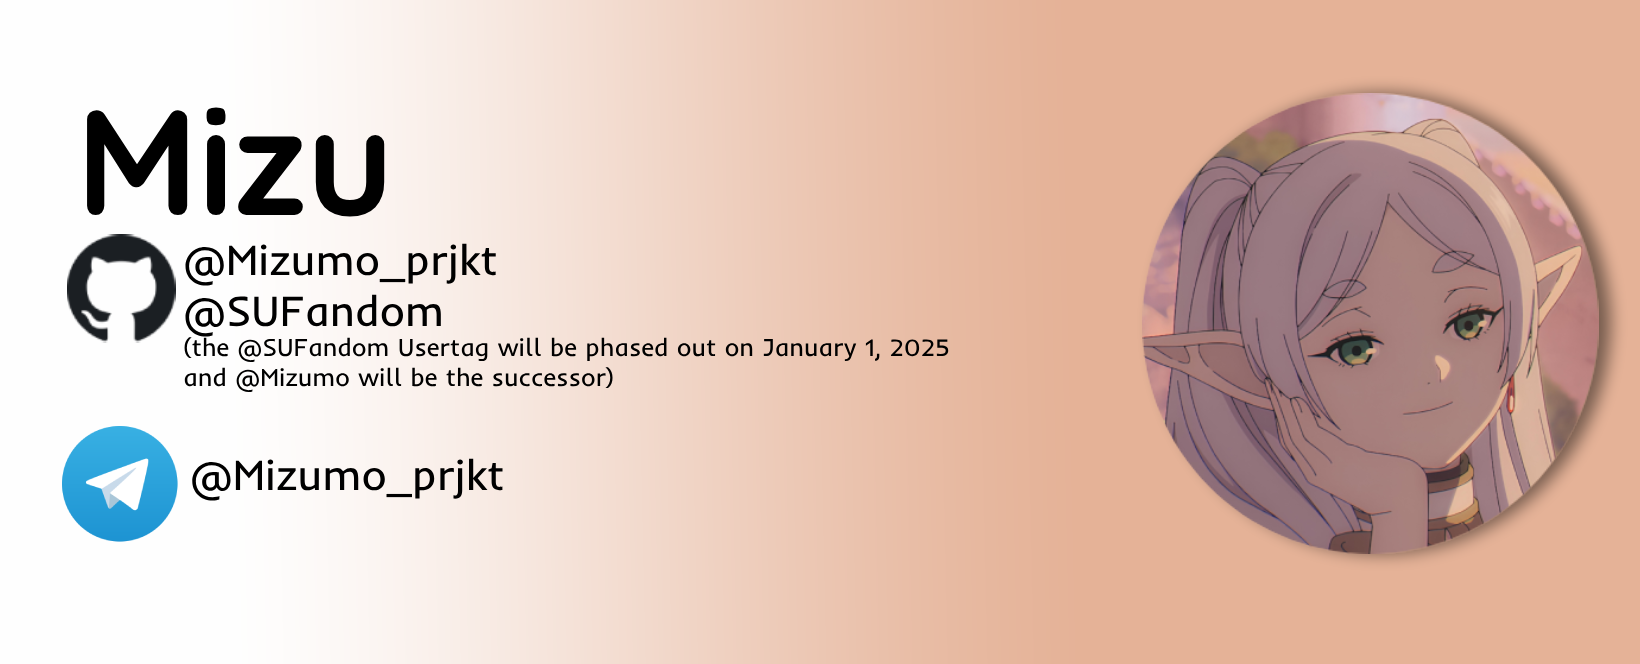
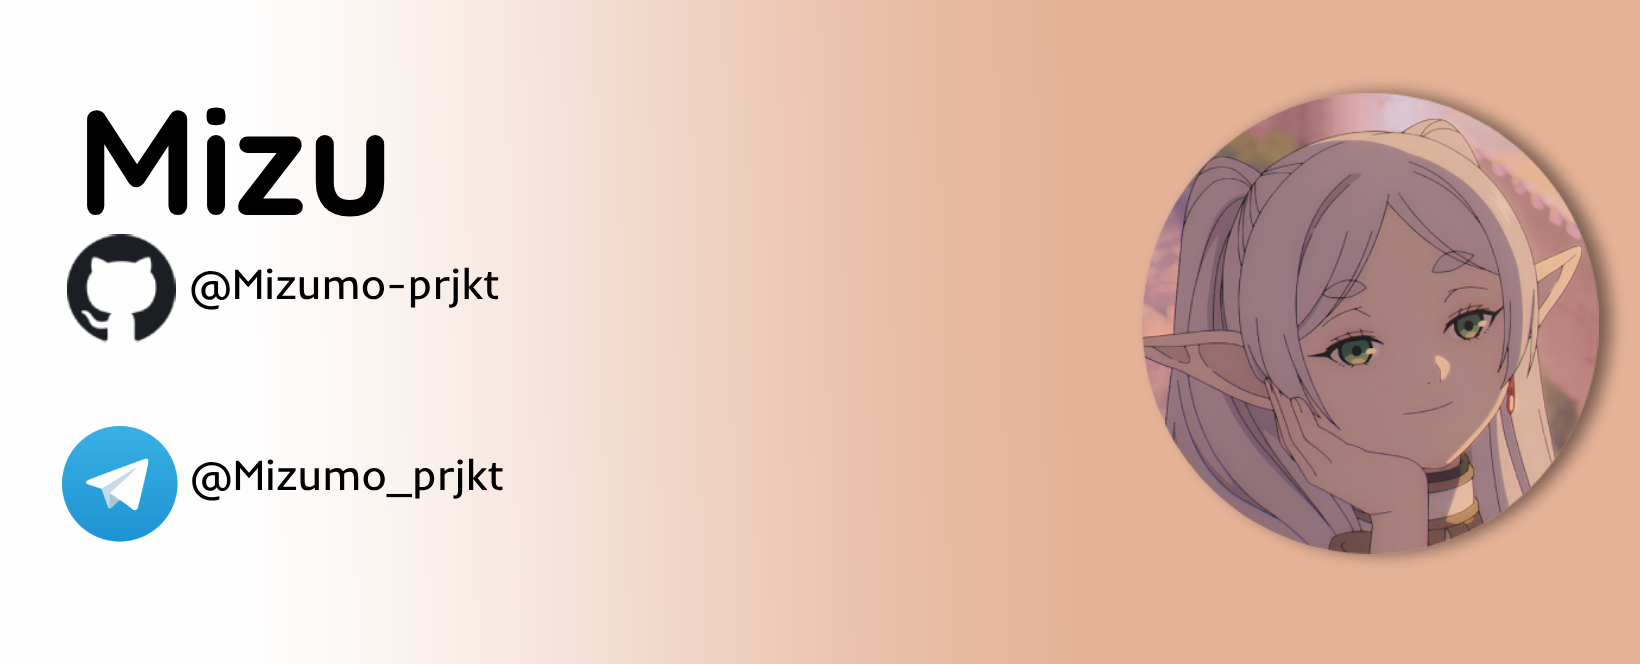
change early

Changed region(s): [[0.0933, 0.3614, 0.5909, 0.6024]]

diff --git a/README.md b/README.md
@@ -38,7 +38,7 @@ So, My Notable works???
 | <img src="https://www.svgrepo.com/show/331582/sourceforge.svg" style="display: block; margin-left: auto; margin-right: auto;" height=15% width=15%> <p style="margin: auto" align=center>SourceForge</p>                                                                                                                            | https://sourceforge.net/u/xynoxx/profile/                                                                           |
 |----------------------------------------------------------------------------------------------------------------------------------------------------------------------------------------------------------------------------------------------------------------------|---------------------------------------------------------------------------------------------------------------------|
 | <p align=center><img src="https://upload.wikimedia.org/wikipedia/commons/thumb/8/82/Telegram_logo.svg/2048px-Telegram_logo.svg.png" style="display: block; margin-left: auto; margin-right: auto;" height=15% width=15% ></p> <p style="margin: auto;" align=center ><b>Telegram</b></p> | Announcements: https://t.me/prjkt_mizumo  <br>Account: @Mizumo_prjkt <br>  Also can be found: https://t.me/a12schat |
-| <p align=center><img src="https://upload.wikimedia.org/wikipedia/commons/9/91/Octicons-mark-github.svg" style="display: block; margin-left: auto; margin-right: auto;" height=15% width=15%></p> <p style="margin: auto;" align=center><b>Github</b></p>                                 | Phasing out on Jan 1, 2025:<br>https://github.com/SUFandom <br><br> Replacing: <br> https://github.com/Mizumo_prjkt       |
+| <p align=center><img src="https://upload.wikimedia.org/wikipedia/commons/9/91/Octicons-mark-github.svg" style="display: block; margin-left: auto; margin-right: auto;" height=15% width=15%></p> <p style="margin: auto;" align=center><b>Github</b></p>                                 |  https://github.com/Mizumo-prjkt       |
 | <p align=center><img src="https://static-00.iconduck.com/assets.00/games-genshinimpact-icon-2048x2048-jyrv8s6e.png" style="display: block; margin-left: auto; margin-right: auto;" height=15% width=15% > </p> <p style="margin: auto" align=center><b>Genshin Impact</b></p> | Asia <a href="https://act.hoyolab.com/app/community-game-records-sea/index.html?bbs_presentation_style=fullscreen&bbs_auth_required=true&gid=2&user_id=286019394&utm_source=share&utm_medium=link&lang=en-us&bbs_theme=light&bbs_theme_device=1&utm_campaign=web#/ys">874714933</a> <br><br> (Ed. Note: i don't play Genshin that much, F2P only, also if you are looking at my Battle Chronicle Index, be prepare to vomit) |
 
 
